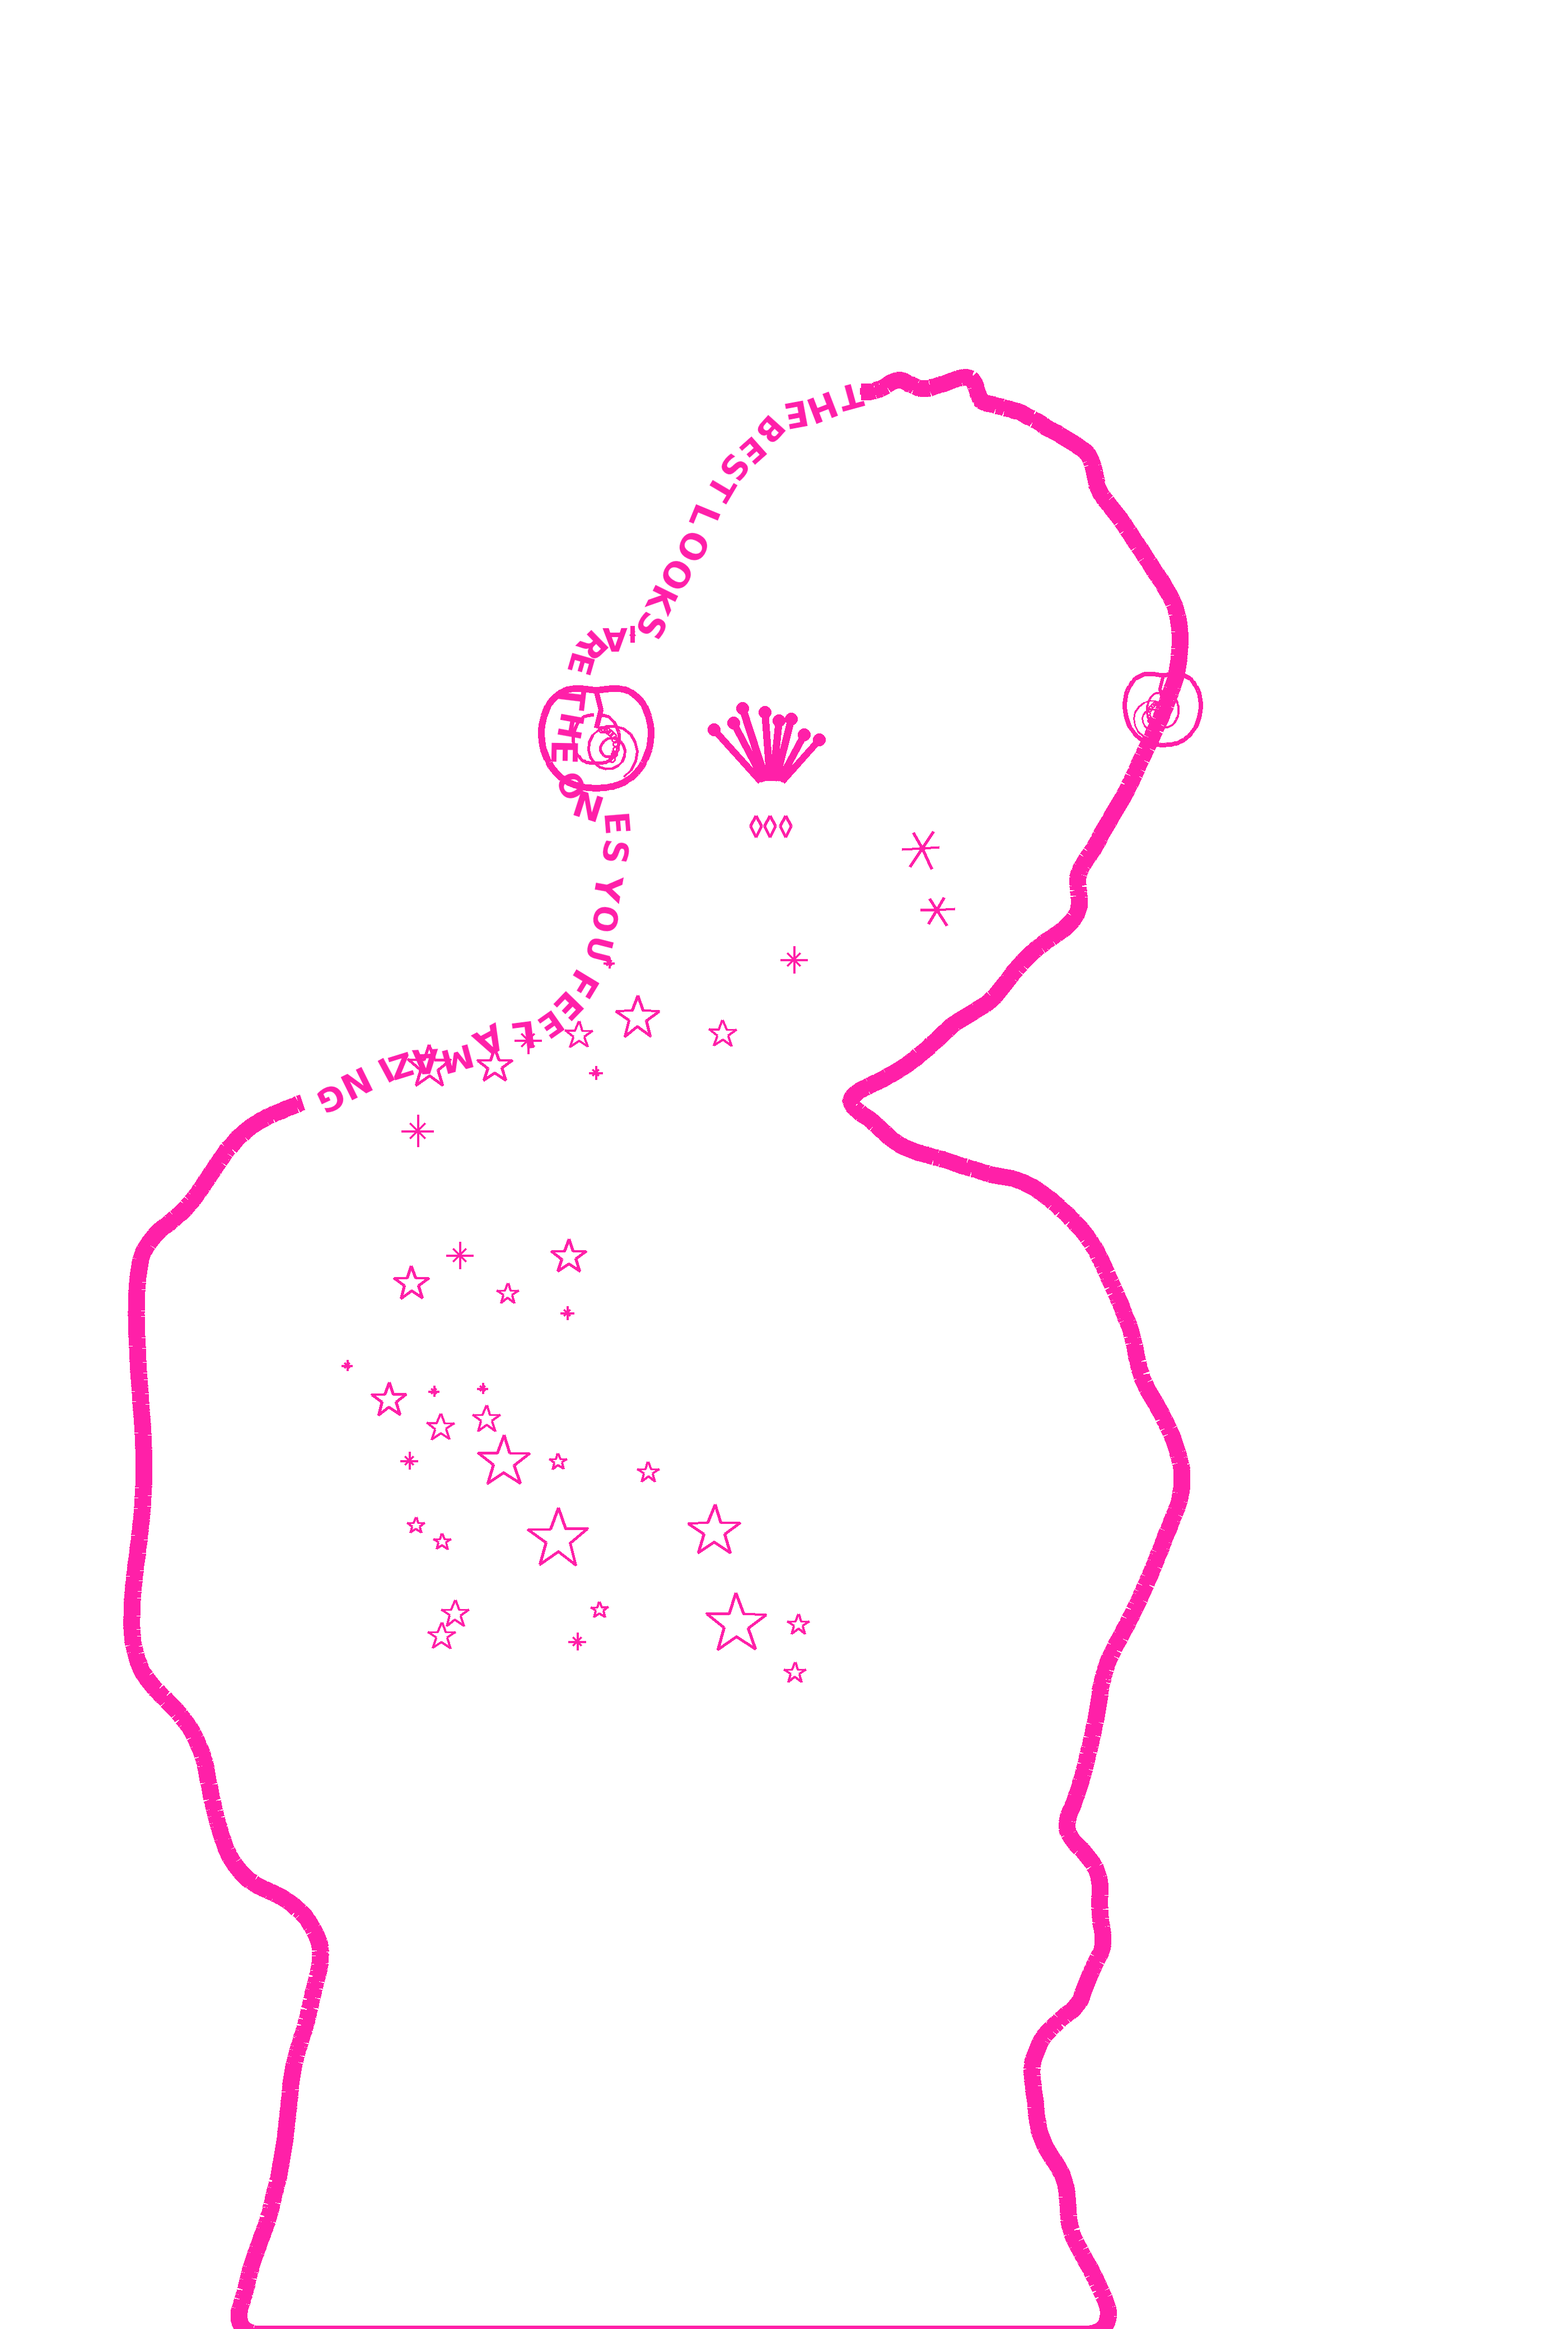
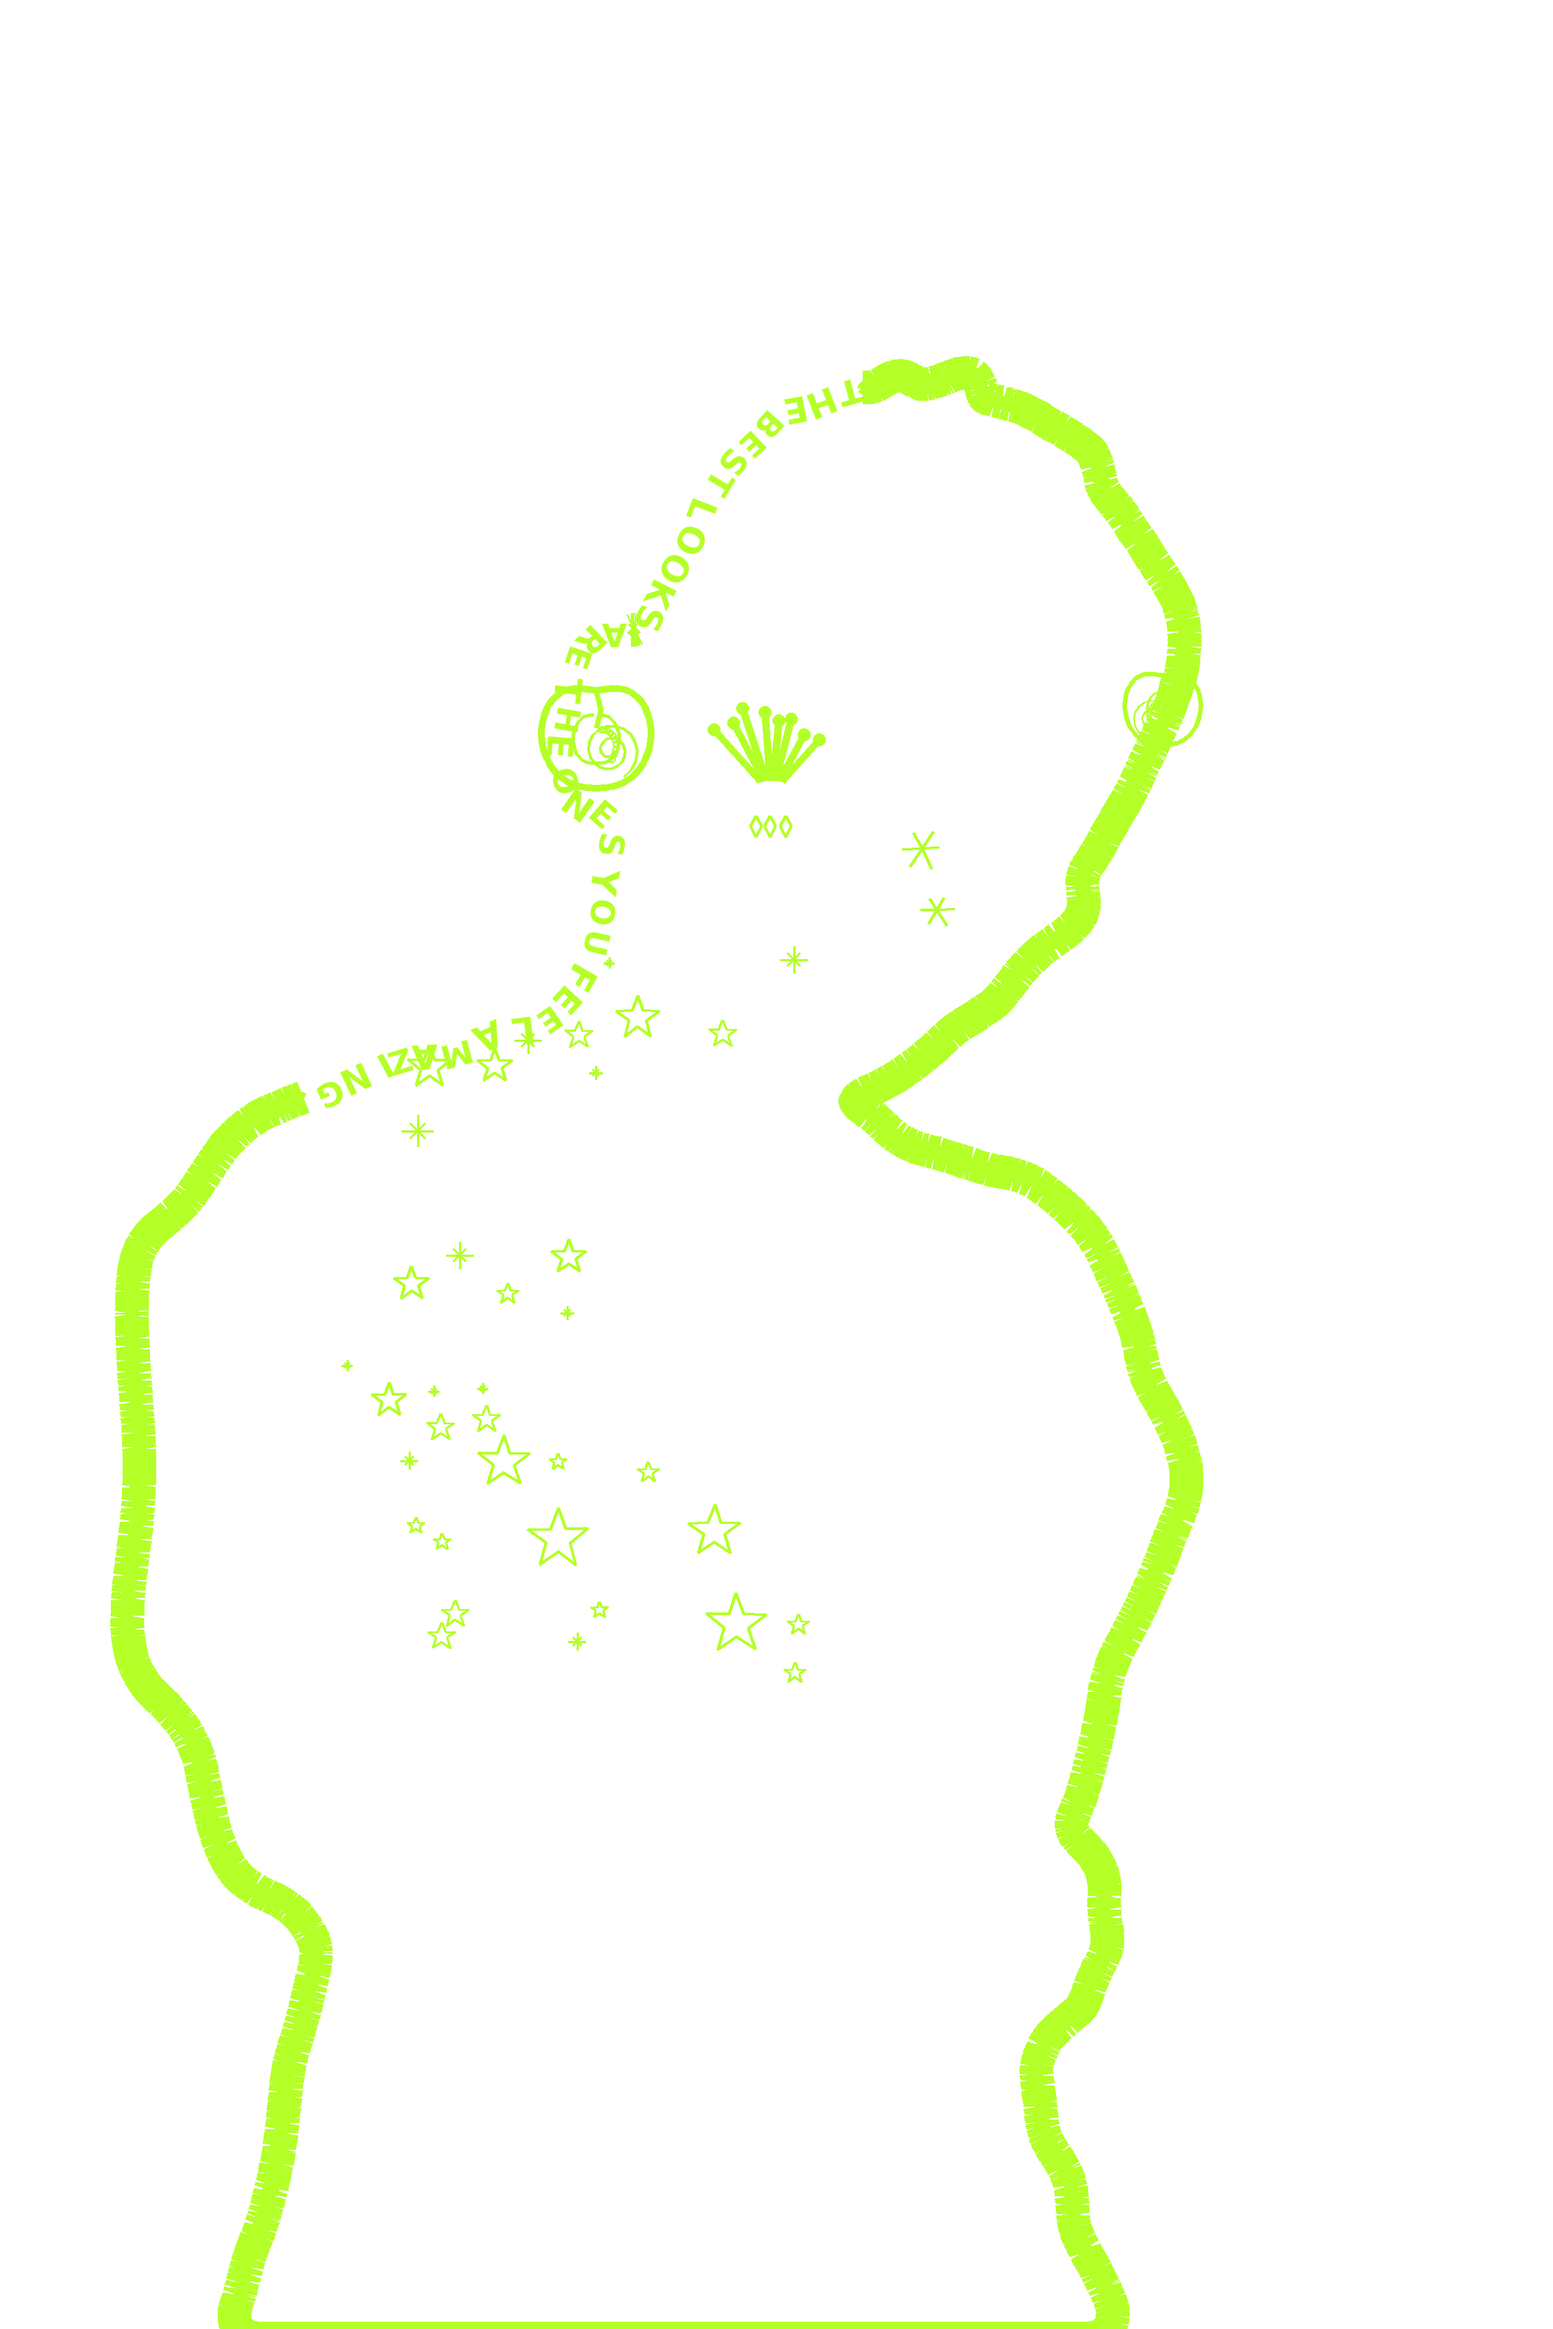
Restyle Platon overlay: lime accent, thicker outline, text background
Swap neon magenta for lime, double the silhouette stroke width, and
replace the studio backdrop with a dense outlined Platon lettering field
behind the cutout subject.

diff --git a/platon_art/make_overlay.py b/platon_art/make_overlay.py
@@ -20,8 +20,15 @@ MASK_CACHE = ROOT / "silhouette_mask.png"
 PTS_CACHE = ROOT / "landmarks.json"
 SHIRT_CACHE = ROOT / "shirt_mask.png"
 
-PINK = (255, 32, 168)  # RGB neon magenta
+LIME = (180, 255, 40)  # RGB neon lime
+ACCENT = LIME
 TEXT = "THE BEST LOOKS ARE THE ONES YOU FEEL AMAZING"
+BG_WORD = "Platon"
+BG_COLOR = (236, 236, 234)  # light off-white like the reference
+BG_TEXT_COLOR = (28, 28, 28)
+# Previous stroke widths were 30 / 12 — doubled per request
+OUTLINE_WIDTH = 60
+OUTLINE_WIDTH_INNER = 24
 FONT_CANDIDATES = [
     "/usr/share/fonts/truetype/dejavu/DejaVuSans-Bold.ttf",
     "/usr/share/fonts/truetype/liberation/LiberationSans-Bold.ttf",
@@ -465,41 +472,89 @@ def inflate_path(pts: np.ndarray, px: float) -> np.ndarray:
     return pts + outward_normals(pts) * px
 
 
+def make_platon_text_background(w: int, h: int, mask: np.ndarray) -> Image.Image:
+    """Dense outlined 'Platon' fill behind the subject, like the reference."""
+    del mask  # subject is composited on top; fill the full canvas
+    bg = Image.new("RGB", (w, h), BG_COLOR)
+    draw = ImageDraw.Draw(bg)
+
+    base_size = max(48, int(w * 0.042))
+    word = BG_WORD
+    stroke = max(2, base_size // 16)
+    rng = random.Random(19)
+
+    # Measure nominal glyph box
+    probe = load_font(base_size)
+    bb0 = probe.getbbox(word)
+    gap_x = int((bb0[2] - bb0[0]) * 0.10)
+    gap_y = int((bb0[3] - bb0[1]) * 0.14)
+
+    y = -int((bb0[3] - bb0[1]) * 0.25)
+    row = 0
+    while y < h + base_size:
+        size = int(base_size * rng.uniform(0.94, 1.06))
+        row_font = load_font(size)
+        bb = row_font.getbbox(word)
+        ww = max(bb[2] - bb[0], 1)
+        wh = max(bb[3] - bb[1], 1)
+        x = -int(ww * (0.4 if row % 2 else 0.05))
+        while x < w + ww:
+            # Hollow outlined letters: fill = background, dark stroke
+            draw.text(
+                (x + rng.uniform(-1.2, 1.2), y + rng.uniform(-0.8, 0.8)),
+                word,
+                font=row_font,
+                fill=BG_COLOR,
+                stroke_width=stroke,
+                stroke_fill=BG_TEXT_COLOR,
+            )
+            x += ww + gap_x
+        y += wh + gap_y
+        row += 1
+
+    return bg.convert("RGBA")
+
+
+def cutout_subject(rgb: np.ndarray, mask: np.ndarray) -> Image.Image:
+    """Subject pixels only; photo itself is not recolored."""
+    # Slight feather so the cutout sits cleanly on the text background
+    blur = cv2.GaussianBlur(mask, (5, 5), 0)
+    rgba = np.dstack([rgb, blur])
+    return Image.fromarray(rgba, mode="RGBA")
+
+
 def build_overlay(bgr: np.ndarray, mask: np.ndarray, pts: dict) -> Image.Image:
     h, w = bgr.shape[:2]
     overlay = Image.new("RGBA", (w, h), (0, 0, 0, 0))
-    draw = ImageDraw.Draw(overlay)
 
     contour = largest_contour(mask)
     path = resample_contour(contour, n=1800)
-    # Slight outward offset so stroke sits outside the body (sticker halo)
-    path = inflate_path(path, 10)
+    # Outward offset for sticker halo — a bit more room for the thicker stroke
+    path = inflate_path(path, 18)
 
     random.seed(12)
-    skip = draw_text_integrated(overlay, path, TEXT, PINK, font_size=62)
+    skip = draw_text_integrated(overlay, path, TEXT, ACCENT, font_size=62)
 
-    # Marker silhouette — thick under text gaps; thinner where letters sit
     draw = ImageDraw.Draw(overlay)
-    draw_thick_path(draw, path, PINK, width=30, skip=skip)
-    # Second slightly jittered pass for marker texture (full loop, thinner)
+    draw_thick_path(draw, path, ACCENT, width=OUTLINE_WIDTH, skip=skip)
     rng = np.random.default_rng(5)
-    jitter = path + rng.normal(0, 1.8, path.shape)
-    draw_thick_path(draw, jitter, PINK, width=12, skip=skip)
+    jitter = path + rng.normal(0, 2.2, path.shape)
+    draw_thick_path(draw, jitter, ACCENT, width=OUTLINE_WIDTH_INNER, skip=skip)
 
     random.seed(21)
     le = (pts["left_eye"][0], pts["left_eye"][1])
     re = (pts["right_eye"][0], pts["right_eye"][1])
     draw = ImageDraw.Draw(overlay)
-    draw_eye_lashes(draw, le, PINK, scale=1.25)
-    draw_eye_bursts(draw, re, PINK)
+    draw_eye_lashes(draw, le, ACCENT, scale=1.25)
+    draw_eye_bursts(draw, re, ACCENT)
 
-    draw_paisley(draw, tuple(pts["left_ear"]), PINK, scale=1.35, flip=False)
-    draw_paisley(draw, tuple(pts["right_ear"]), PINK, scale=0.95, flip=True)
+    draw_paisley(draw, tuple(pts["left_ear"]), ACCENT, scale=1.35, flip=False)
+    draw_paisley(draw, tuple(pts["right_ear"]), ACCENT, scale=0.95, flip=True)
 
     shirt = cv2.imread(str(SHIRT_CACHE), 0)
     if shirt is None:
         shirt = np.zeros(mask.shape, np.uint8)
-    fill_stars(draw, shirt, PINK)
+    fill_stars(draw, shirt, ACCENT)
 
     return overlay
 
@@ -513,21 +568,30 @@ def main() -> None:
     mask = segment_subject(bgr)
     pts = detect_landmarks(bgr, mask)
 
+    h, w = mask.shape
+    background = make_platon_text_background(w, h, mask)
+    subject = cutout_subject(original_rgb, mask)
     overlay = build_overlay(bgr, mask, pts)
-    base = Image.fromarray(original_rgb).convert("RGBA")
-    composed = Image.alpha_composite(base, overlay).convert("RGB")
+
+    # Background → original Platon cutout → lime graphics
+    composed = Image.alpha_composite(background, subject)
+    composed = Image.alpha_composite(composed, overlay).convert("RGB")
 
     composed.save(OUT, quality=95)
     preview = composed.copy()
     preview.thumbnail((900, 1400))
     preview.save(OUT_PREVIEW, quality=90)
     overlay.save(ROOT / "overlay_only.png")
+    background.convert("RGB").save(ROOT / "background_platon.jpg", quality=90)
 
-    # Verify photo pixels under opaque overlay regions still match outside pink
-    # (spot-check: background corner unchanged)
-    orig = np.array(Image.fromarray(original_rgb))
-    out = np.array(composed)
-    assert np.array_equal(orig[10, 10], out[10, 10]), "Background corner was altered"
+    # Subject interior (away from edges) must match the original photo
+    ys, xs = np.where(cv2.erode(mask, np.ones((41, 41), np.uint8)) > 0)
+    if len(xs):
+        i = len(xs) // 2
+        y, x = int(ys[i]), int(xs[i])
+        assert np.array_equal(original_rgb[y, x], np.array(composed)[y, x]), (
+            "Subject pixels were altered"
+        )
     print(f"Wrote {OUT}")
     print(f"Wrote {OUT_PREVIEW}")
     print("Landmarks:", json.dumps(pts))
@@ -535,3 +599,4 @@ def main() -> None:
 
 if __name__ == "__main__":
     main()
+

diff --git a/platon_art/README.md b/platon_art/README.md
@@ -1,8 +1,8 @@
 # Platon — neon silhouette overlay
 
-Graphics-only treatment in the style of the provided reference: neon-magenta hand-drawn outline, text-on-path, eye accents, paisley ear motifs, and star fill on the shirt.
+Graphics treatment: neon-lime hand-drawn outline (2× thick), text-on-path, eye accents, paisley ear motifs, star fill on the shirt, and a reference-style background filled with outlined **Platon** lettering.
 
-The original photograph is not color-graded or otherwise edited — pink graphics are alpha-composited on top.
+The photograph of Platon is not recolored — he is cut out and composited over the text background; lime graphics sit on top.
 
 ## Generate
 
@@ -15,3 +15,4 @@ Outputs:
 - `platon_neon_overlay.jpg` — final composite
 - `platon_neon_overlay_preview.jpg` — smaller preview
 - `overlay_only.png` — transparent graphic layer
+- `background_platon.jpg` — text background alone
